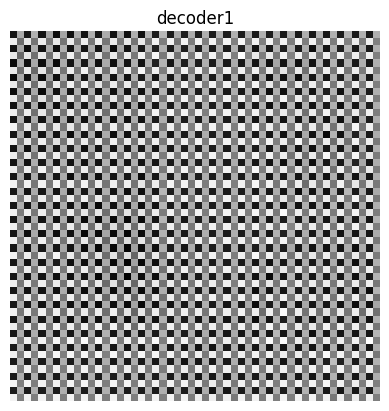
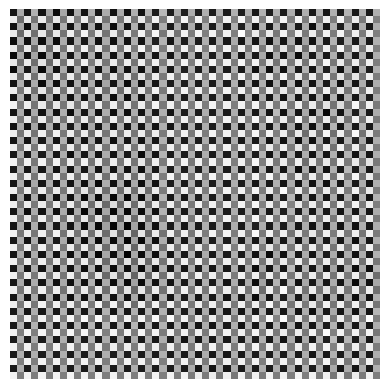
refactor

diff --git a/pytorch_unet.py b/pytorch_unet.py
@@ -5,9 +5,14 @@ import torch.nn as nn
 from PIL import Image
 import torchvision.transforms as transforms
 import matplotlib.pyplot as plt
-import os
+import os, shutil
 torch_seed = 42
 torch.manual_seed(torch_seed)
+
+def create_dir(dir_path):
+    if os.path.exists(dir_path):
+        shutil.rmtree(dir_path)
+    os.makedirs(dir_path)
 
 class UNet(nn.Module): #572x572
     def __init__(self, in_channels, out_channels):
@@ -92,9 +97,18 @@ class UNet(nn.Module): #572x572
         print(x.shape) # torch.Size([1, 1, 572, 572])
         self.feature_maps['input'] = x
         # Encoder
+        enc1_conv1 = self.encoder1_conv1(x)
+        self.feature_maps['enc1_conv1'] = enc1_conv1
+        enc1_relu1 = self.encoder1_relu1(enc1_conv1)
+        self.feature_maps['enc1_relu1'] = enc1_relu1
+        enc1_conv2 = self.encoder1_conv2(enc1_relu1)
+        self.feature_maps['enc1_conv2'] = enc1_conv2
+        enc1_relu2 = self.encoder1_relu2(enc1_conv2)
+        self.feature_maps['enc1_relu2'] = enc1_relu2
+
         enc1 = self.encoder1_relu1(self.encoder1_conv1(x))
         enc1 = self.encoder1_relu2(self.encoder1_conv2(enc1))
-        enc1_pool = self.encoder1_pool(enc1)
+        enc1_pool = self.encoder1_pool(enc1_relu2)
         print(enc1_pool.shape) # torch.Size([1, 64, 284, 284])
         self.feature_maps['encoder1'] = enc1_pool
 
@@ -124,36 +138,48 @@ class UNet(nn.Module): #572x572
 
         # Decoder
         dec1_upsampled = self.decoder1_upsample(bottleneck)
+        self.feature_maps['decoder1_before_skip'] = dec1_upsampled
         # Crop the corresponding feature map from encoder 4
         enc4_crop = self.copy_and_crop(enc4, dec1_upsampled.shape[2:])
+        self.feature_maps['decoder1_before_skip_enc4'] = enc4_crop
         dec1 = torch.cat([dec1_upsampled, enc4_crop], dim=1)  # Skip connection
+        self.feature_maps['decoder1_after_skip'] = dec1
         dec1 = self.decoder1_relu1(self.decoder1_conv1(dec1))
         dec1 = self.decoder1_relu2(self.decoder1_conv2(dec1))
         print(dec1.shape) # torch.Size([1, 512, 52, 52])
         self.feature_maps['decoder1'] = dec1
 
         dec2_upsampled = self.decoder2_upsample(dec1)
+        self.feature_maps['decoder2_before_skip'] = dec2_upsampled
         # Crop the corresponding feature map from encoder 3
         enc3_crop = self.copy_and_crop(enc3, dec2_upsampled.shape[2:])
+        self.feature_maps['decoder2_before_skip_enc3'] = enc3_crop
         dec2 = torch.cat([dec2_upsampled, enc3_crop], dim=1)  # Skip connection
+        self.feature_maps['decoder2_after_skip'] = dec2
         dec2 = self.decoder2_relu1(self.decoder2_conv1(dec2))
         dec2 = self.decoder2_relu2(self.decoder2_conv2(dec2))
         print(dec2.shape) # torch.Size([1, 256, 100, 100])
         self.feature_maps['decoder2'] = dec2
 
         dec3_upsampled = self.decoder3_upsample(dec2)
+        self.feature_maps['decoder3_before_skip'] = dec3_upsampled
         # Crop the corresponding feature map from encoder 2
         enc2_crop = self.copy_and_crop(enc2, dec3_upsampled.shape[2:])
+        self.feature_maps['decoder3_before_skip_enc2'] = enc2_crop
         dec3 = torch.cat([dec3_upsampled, enc2_crop], dim=1)  # Skip connection
+        self.feature_maps['decoder3_after_skip'] = dec3
         dec3 = self.decoder3_relu1(self.decoder3_conv1(dec3))
         dec3 = self.decoder3_relu2(self.decoder3_conv2(dec3))
         print(dec3.shape) # torch.Size([1, 128, 196, 196])
         self.feature_maps['decoder3'] = dec3
 
         dec4_upsampled = self.decoder4_upsample(dec3)
+        self.feature_maps['decoder4_before_skip'] = dec4_upsampled
         # Crop the corresponding feature map from encoder 1
         enc1_crop = self.copy_and_crop(enc1, dec4_upsampled.shape[2:])
+        self.feature_maps['decoder4_before_skip_enc1'] = enc1_crop
         dec4 = torch.cat([dec4_upsampled, enc1_crop], dim=1)  # Skip connection
+        self.feature_maps['decoder4_after_skip'] = dec4
         dec4 = self.decoder4_relu1(self.decoder4_conv1(dec4))
         dec4 = self.decoder4_relu2(self.decoder4_conv2(dec4))
         print(dec4.shape) # torch.Size([1, 64, 388, 388])
@@ -179,8 +205,8 @@ if __name__ == "__main__":
     model = UNet(in_channels=1, out_channels=2)
     output = model(sample_input)
     print("Output shape:", output.shape) # torch.Size([1, 2, 388, 388])
-
-    os.makedirs("feature_maps", exist_ok=True)
+    feature_maps_dir = os.getcwd() + '/feature_maps'
+    create_dir(feature_maps_dir)
     for layer_name, feature_map in model.feature_maps.items():
         feature_map = feature_map.squeeze(0)
         if len(feature_map.shape) > 2:
@@ -188,5 +214,4 @@ if __name__ == "__main__":
         feature_map_np = feature_map.detach().cpu().numpy()
         plt.imshow(feature_map_np, cmap='gray')
         plt.axis('off')
-        plt.title(layer_name)
         plt.savefig(f"feature_maps/{layer_name}.png", bbox_inches='tight')
